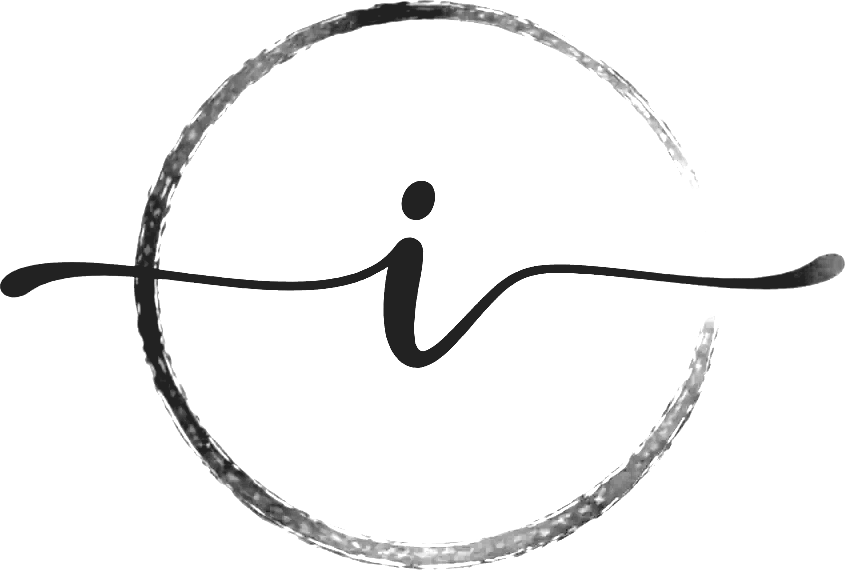
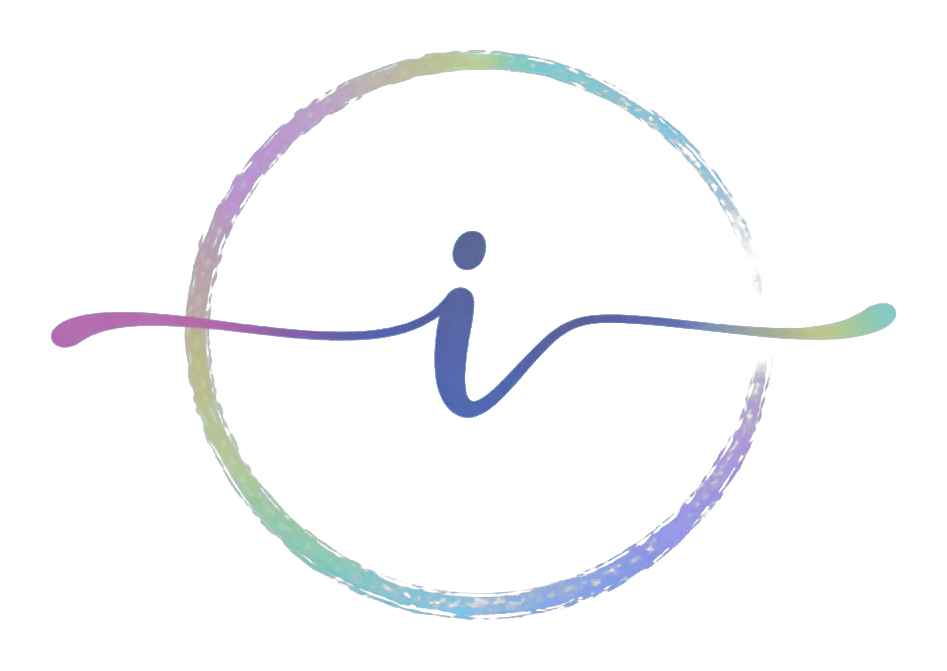
事業ロゴを元の色（ライトモード配色）に変更し、白背景で表示

Changed region(s): [[0.0, 0.0, 1.0, 1.0]]

diff --git a/assets/style.css b/assets/style.css
@@ -122,7 +122,7 @@ section{padding:clamp(64px,9vw,130px) 0}
 .biz-card .cimg{aspect-ratio:16/10;background:#fff;overflow:hidden;border-bottom:1px solid var(--line)}
 .biz-card .cimg img{width:100%;height:100%;object-fit:cover;display:block;transition:transform .5s cubic-bezier(.2,.7,.2,1)}
 .biz-card:hover .cimg img{transform:scale(1.05)}
-.biz-card .cimg img.brand{padding:13%;opacity:.82;transition:opacity .25s ease}
+.biz-card .cimg img.brand{padding:13%;opacity:1;transition:opacity .25s ease}
 .biz-card:hover .cimg img.brand{transform:none;opacity:1}
 .biz-card .cbody{padding:26px 26px 30px}
 .biz-card .cnum{font-family:var(--sans);font-weight:700;font-size:13px;letter-spacing:.2em;color:var(--ink-2)}
